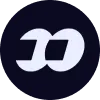
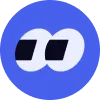
UI track: chip TESIS ahora con el icono 'top trade' azul de GMGN

diff --git a/src/app/(tabs)/history.tsx b/src/app/(tabs)/history.tsx
@@ -979,8 +979,8 @@ function scoreTone(score: number) {
 }
 
 /**
- * Icono del chip TESIS: el "top call" por defecto de GMGN (el tile oscuro con
- * su logo). La URL original (gmgn.ai/static/img/fomo_top_call_default.webp)
+ * Icono del chip TESIS: el "top trade" por defecto de GMGN (el tile azul con
+ * su logo). La URL original (gmgn.ai/static/img/fomo_top_trade_default.webp)
  * está tras Cloudflare y devuelve 403 al app, así que el PNG vive en el repo.
  */
 const TESIS_ICON = require('@/assets/images/tesis-gmgn.png');
@@ -1039,8 +1039,8 @@ function SourceChips({ s }: { s: SourceFields }) {
       {s.buyScore != null ? (
         <MiniStat label="SCORE" value={String(s.buyScore)} valueTone={scoreTone(s.buyScore)} />
       ) : null}
-      {/* TESIS con el icono "top call" de GMGN (asset local, la URL original
-          está tras Cloudflare). */}
+      {/* TESIS con el icono "top trade" azul de GMGN (asset local, la URL
+          original está tras Cloudflare). */}
       {s.thesesCount != null ? (
         <MiniStat label="TESIS" img={TESIS_ICON} value={formatCompactQty(s.thesesCount)} valueTone={Palette.paper} />
       ) : null}
